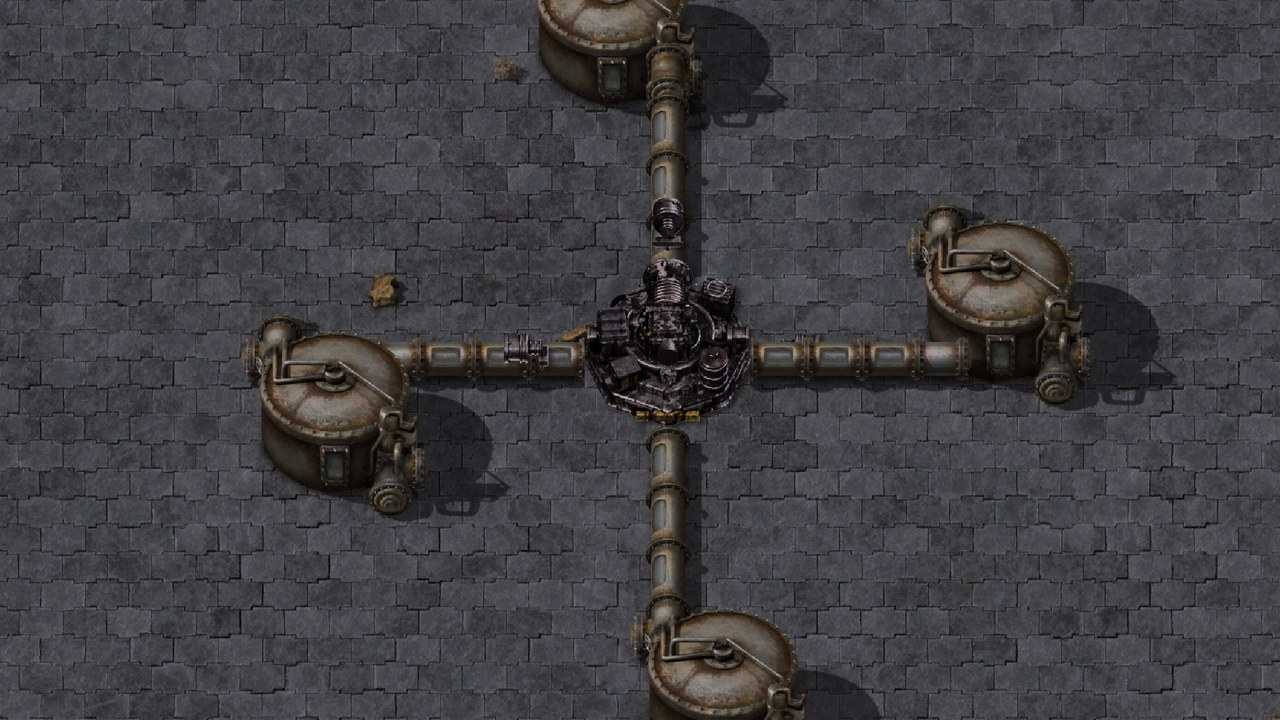
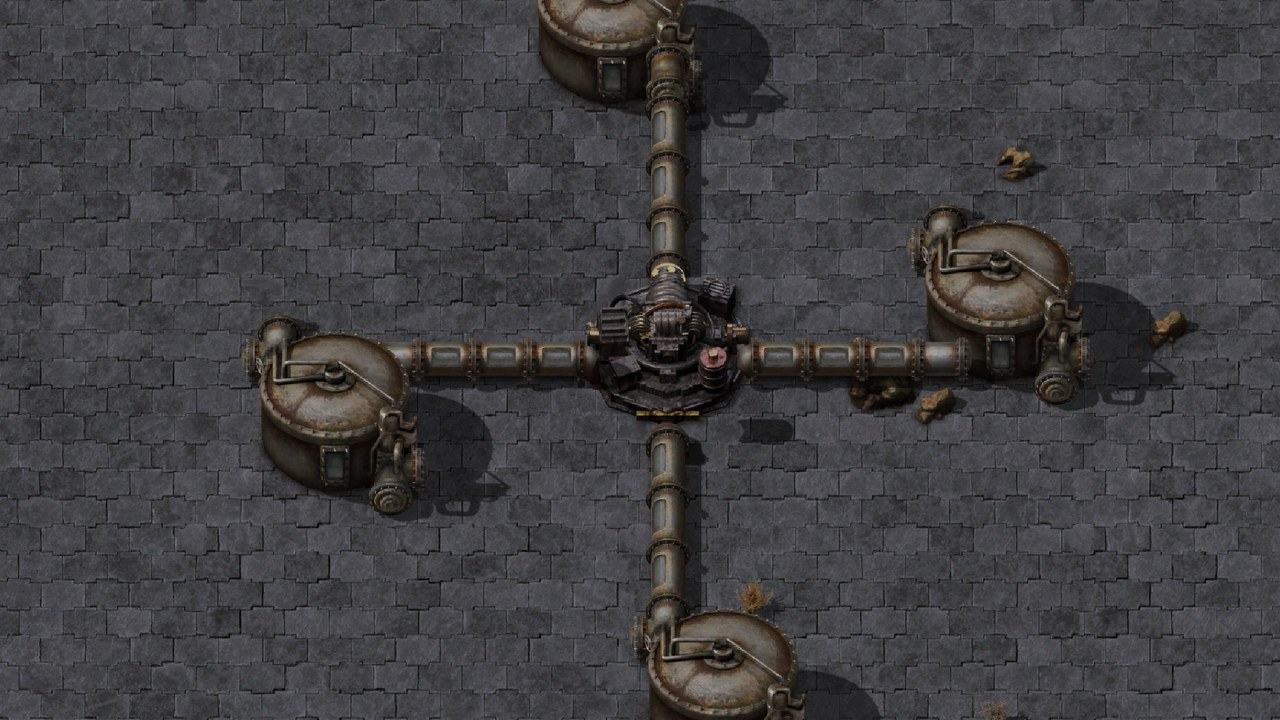
melta: give the turret cubeine's pipe stub, and nothing on an unused port
The 0.5.x build rendered its own port and cap. Both were placed at the
connection point (1.12 tiles), while the hull's silhouette starts at
1.28 north / 1.53 west / 1.64 east, so every side with no pipe showed a
plate floating half a tile off the deck -- and `pipe_covers` is by
definition the picture for a side with nothing connected.

Replace it with the configuration lilys-cubeine's combustion center
already ships, copied almost verbatim:

  pipe_picture             = space-age electromagnetic-plant pipe pictures
  draw_only_when_connected = true
  secondary_draw_orders    = {north = -1, west = -1, east = -1}
  pipe_covers              = nil   (vanilla covers only when space-age is absent)

`draw_only_when_connected` is the "only if the connector is actually
used" behaviour: an unused side draws nothing at all. The negative
secondary draw order puts the stub behind the hull, so what reads is the
pipe running into the housing rather than a collar on the deck. The art
is untinted, i.e. the same grey hardware as every pipe the player
builds. Positions stay at C.pipe_reach = 1.12 -- a connection cannot
move outward anyway (the loader rejects anything outside the 1.199
collision box), and that number is the part of cubeine's config that
does not carry over from its 5x5 reactor.

Verified in one GUI run (2.1.23): joins on all four sides, bare hull on
the three unconnected sides of a one-sided turret, plus a vanilla
[…]

diff --git a/DESIGN.md b/DESIGN.md
@@ -286,93 +286,75 @@ So the ports are `+-1.12` tiles on the four axes and `flow_direction` is left at
 engine default (`"input-output"`, verified at runtime by reading
 `get_fluid_box_pipe_connections`) like the vanilla flamethrower turret.
 
-### Why the pipes still looked disconnected, and what actually fixes it
+### The fix: the pipe hardware cubeine's combustion center already ships
 
 `pipe_covers` is **not** the connected-port picture. 2.1 splits the two cases:
 
 | field | drawn when |
 |---|---|
-| `pipe_picture` | a pipe *is* connected on that side — this is the machine's own stub (vanilla's `assembling-machine-2-pipe-N/E/S/W`) |
+| `pipe_picture` | a pipe *is* connected on that side — the machine's own stub |
 | `pipe_covers` | nothing is connected on that side — a blanking cap |
 | `always_draw_covers` | defaults to **true when `pipe_picture` is absent**, i.e. covers are then drawn on every side |
 
-The 0.4.0 build set only `pipe_covers`, so the engine drew vanilla's *cap* — whose art
-sits 0.28-0.5 tiles inboard of the anchor, i.e. at 0.88-1.04 tiles from the centre —
-on all four sides whether a pipe was there or not: a collar lying on the deck, half a
-tile short of the pipe, and no port art at all where the pipe arrived.
+0.4.0 set only `pipe_covers`, so vanilla's *cap* — whose art sits 0.28-0.5 tiles inboard
+of the anchor — was drawn on all four sides whether a pipe was there or not. 0.5.x
+replaced that with the mod's own rendered port plus a blanked-off variant of it, and hit
+the same wall one generation further on: a cap has to be drawn at the connection point
+(1.12), while the hull's silhouette starts at 1.28 north / 1.53 west / 1.64 east, so
+**every unused side showed a plate floating half a tile off the deck** — visible in
+`docs/verification/in-game-pipes/05-capped-ports.jpg` from 0.5.1.
 
-The fix is the native one and it is where the "render extra pipe models" instinct was
-right: the mod now renders its own port (`graphics/_blender/pipe_port.py`, one model:
-mount pad, neck with ribbed strain relief, bolted clamp collar, socket mouth with a
-bolt ring) in four orientations, and supplies it as **`pipe_picture`** for connected
-sides and as a blanked-off variant of the same port for **`pipe_covers`**.
-`always_draw_covers = false` makes the distinction explicit.
+The configuration that works is not a render at all: it is what `lilys-cubeine`'s
+combustion center already ships, copied almost verbatim.
 
-- Frame centre = the connection point, `scale = 0.5` on a 128 px sprite (64 art px/tile,
-  the same density as the rest of the mod's art), so `C.pipe_reach` decides where the
-  socket sits and nothing guesses a `shift`.
-- One model, four renders through the same 51° camera: the projection lands it at a
-  different screen distance per side (the pipe's own art is asymmetric too — its near
-  edge is 1.52 tiles north but 1.19 south). `C.pipe_shift` carries the per-side
-  correction, screen tiles: south `+0.18` and west `-0.22`, because on those sides the
-  clamp collar otherwise hid behind the hull's deeper rim (south 1.28) or the west
-  vent block, and only the mouth showed — which read as a cap sitting on the pipe.
+```lua
+pipe_picture             = <space-age electromagnetic-plant pipe pictures>
+draw_only_when_connected = true
+secondary_draw_orders    = {north = -1, west = -1, east = -1}
+pipe_covers              = nil          -- whenever space-age is present
+```
 
-Measured with `python graphics/_blender/pipe_join.py --check`, which composites the
-hull, the port and the real vanilla pipe sprite at 64 px/tile (Factorio zoom 2.0) and
-fails if the port does not reach the pipe or if any bare ground shows in between:
+- `draw_only_when_connected` is literally "only if the connector is actually used": a
+  side with no pipe draws nothing, so an unused port is bare hull with no cap to float.
+- `secondary_draw_order = -1` draws the stub behind the hull, so its inboard half is
+  hidden and what reads is the part that pokes past the rim — a pipe running into the
+  housing rather than a collar lying on the deck.
+- The art is space-age's `electromagnetic-plant-pipe-{N,E,S,W}`, **untinted**: the same
+  grey metal as every pipe the player builds. (cubeine's own combustion center uses
+  exactly these pictures, also untinted.)
+- `pipe_connections` stay at `C.pipe_reach = 1.12` on all four sides. Positions are the
+  one part of that config that does *not* carry over: cubeine's connections sit at ±2 on
+  a 5x5 reactor, and a connection cannot move out to meet the pipe anyway (1.199 is the
+  hard ceiling).
 
-| side | port reaches | pipe's near edge | overlap | bare ground between |
-|---|---|---|---|---|
-| north | 1.98 | 1.52 | +0.46 | 0 |
-| east | 1.89 | 1.50 | +0.39 | 0 |
-| south | 1.77 | 1.19 | +0.58 | 0 |
-| west | 2.01 | 1.52 | +0.50 | 0 |
+A base-only install gets vanilla `pipecoverspictures()` covers instead — the same thing
+the vanilla flamethrower turret uses — because the electromagnetic-plant art does not
+exist without the expansion. The mod detects `mods["space-age"]` at the data stage and
+picks the branch itself.
 
-The capped sprite is checked the same way (`cap px`: pixels the blanking plate adds over
-the open port, 72-160 per side) so "no pipe connected" cannot silently revert to looking
-like an open socket.
+### Evidence
 
-In game (Steam build, 15 screenshots in `docs/verification/in-game-pipes/`): all four
-pipes meet the turret with no bare floor and a visible socket, the three unconnected
-sides of a one-sided turret show blanked plates, and the straight / L / T / cross
-junctions plus a dead end all render clean — the dead end capped, not hollow.
+Real frames from one GUI run (Steam build 87750, 2.1.23), `docs/verification/in-game-pipes/`,
+taken by the `melta-pipes` harness:
 
+| shot | what it shows |
+|---|---|
+| `00-vanilla-ref` | vanilla `assembling-machine-2` with a pipe on four sides — the yardstick for what a vanilla `pipe_picture` join looks like (it leaves a hairline seam too) |
+| `02-melta-four-way`, `03/04/12/13-join-*` | all four joins on a fully plumbed turret: pipe, stub, hull, no bare floor |
+| `05-capped-ports`, `14-capped-port-north` | a turret plumbed on one side: the other three sides are **bare hull**, no hardware at all |
+| `01-overview`, `15-overview-close` | the whole pad, so the joins can be judged at normal zoom |
 
-Measured join — distance from the turret centre to the hull's own silhouette vs to the
-pipe's near edge, at 64 px/tile, measured in a +-0.5 tile band around each pipe axis
-(that band is the only part of the hull a pipe can meet):
+Before/after on the same scene: the 0.5.1 frames (in the same folder) draw a ringed cap
+on every side, connected or not; these draw the stub only where a pipe arrives. The
+in-game pass also re-confirms the plumbing still works headlessly — pipes on all four
+sides are connection targets, and a filled pipe hands fluid over on the next tick (see
+`docs/pipe-connections/`, unchanged by this: no prototype moved except the pipe art
+fields).
 
-| side | hull silhouette | pipe's near edge | ground gap |
-|---|---|---|---|
-| north | 1.38 | 1.50 | **+0.12** |
-| east | 1.64 | 1.50 | −0.14 (pipe overlaps the hull) |
-| south | 1.28 | 1.19 | −0.09 (overlap: the pipe's raised rim projects over the skirt) |
-| west | 1.53 | 1.50 | −0.03 |
-
-The south and east pipe ends are drawn *closer* than 1.5 tiles because the vertical
-pipe sprite's raised rim, and the baked cast shadow, project inboard on screen — that is
-the art, not a port placement.
-
-North used to be +0.42 and was the one side that read as unattached. It was not a
-plumbing problem: a `pipe_connection` cannot sit outside the 1.199 collision box and the
-cover art draws inboard of the anchor, so no socket sprite can reach into that gap. The
-cause was the **art**: `melta-turret-base.png` is rendered through a 51° pitched
-orthographic camera, so the round hull's footprint is drawn squashed in Y — 3.05 tiles
-wide but only ~2.1 tall where vanilla turret hulls run about 1.2 wide-to-tall. So
-`assemble.py` now de-squashes the base layer vertically (`BASE_DESQUASH_Y = 1.26`,
-applied about the frame centre, so `shift = {0, 0}` and the head stays concentric). Only
-the base layer: the 64 head frames are not resampled, so the pivot is untouched.
-
-For reference, vanilla `assembling-machine-2` (same ±1.2 collision box, so pipes also sit
-2.0 tiles out) leaves **+0.24** on its north side — measured the same way, in
-`docs/pipe-sockets/reference-vanilla.png`. Ours is now tighter than vanilla's.
-
-`docs/pipe-sockets/` holds the comparison that picked 1.12 (sink / flush / float /
-no-covers), the four side views, the north before/after panel, the vanilla reference and
-`gaps.json` (the measured table), with a README that says exactly how they were made and
-the one command that re-measures them:
-`python graphics/_blender/pipe_sockets.py --check`.
+The measured hull/pipe geometry above is unchanged and still the reason the stub cannot
+simply be moved outward: `docs/pipe-sockets/` (superseded as art evidence — its
+composites still draw vanilla covers — but `gaps.json` is the measurement) and
+`python graphics/_blender/pipe_sockets.py --check` remain valid as numbers.
 
 ## Engine facts this leans on (and the ones that bit)
 

diff --git a/docs/verification/in-game-pipes/README.md b/docs/verification/in-game-pipes/README.md
@@ -1,17 +1,28 @@
 # In-game check of the pipe joins
 
-15 screenshots from one real Factorio launch (Steam build 87750, 2.1.23), taken with
+17 screenshots from one real Factorio launch (Steam build 87750, 2.1.23), taken with
 `game.take_screenshot` by the `melta-pipes` harness in `docs/verification/harness/`.
 Nothing here is a mock-up or a sprite composite -- these are the game's own frames.
+
+The 0.5.1 frames are kept beside the current ones (`*-0.5.1.jpg`) so the change can be
+seen rather than trusted: 0.5.1 drew a ringed port/cap on **every** side, connected or
+not, and its art sat at the connection point while the hull's silhouette starts further
+out -- so each unused side showed a plate floating half a tile off the deck. The current
+build draws the space-age stub **only** where a pipe actually arrives.
 
 ## Scene
 
 The harness builds it on a concrete pad at y = 200, far from the crash site:
 
+* **REF / `00-vanilla-ref*`** (-16, 200) -- a vanilla `assembling-machine-2` with a pipe on
+  all four sides. Same ±1.2 collision box and the same `pipe_picture` mechanism, so it is
+  the yardstick for what a vanilla join looks like: its pipe flange stops ~10-15 px short
+  of the hull at 4x zoom. The mod's joins are compared against it, not against a mental
+  image.
 * **A** (0.5, 200.5) -- the melta with a pipe on **all four sides**, each run continuing
   three tiles out into a storage tank, so every port is a live fluid neighbour.
 * **B** (16.5, 200.5) -- a second melta plumbed on **one** side only: the other three
-  ports are bare, which is the "unused port must look blanked off" case.
+  ports are bare, which is the "an unused port must draw nothing" case.
 * **C** (y = 214) -- the four junction shapes on their own (straight run, L corner, T
   junction, 4-way cross) plus a two-tile run that dead-ends in open ground.
 
@@ -19,42 +30,48 @@ The harness builds it on a concrete pad at y = 200, far from the crash site:
 
 | file | shows |
 |---|---|
+| `00-vanilla-ref.jpg` | the vanilla assembler, zoom 2.6 -- the reference join |
+| `00-vanilla-ref-north.jpg` | the same at 4x: the small seam a vanilla `pipe_picture` leaves |
 | `01-overview.jpg` | whole pad, zoom 0.9: the turret, its four tanks, the shapes |
-| `02-melta-four-way.jpg` | the turret with one pipe per side, zoom 2.6 |
+| `02-melta-four-way.jpg` | the turret with one pipe per side, zoom 2.6 (`-0.5.1` = before) |
 | `03-join-north.jpg`, `04-join-east.jpg`, `12-join-south.jpg`, `13-join-west.jpg` | each join at zoom 4.0 |
-| `05-capped-ports.jpg`, `14-capped-port-north.jpg` | turret B: the three unconnected ports |
+| `05-capped-ports.jpg`, `14-capped-port-north.jpg` | turret B: the three unconnected ports are bare hull (`-0.5.1` = before: floating caps) |
 | `06-shapes.jpg` | the junction shapes, zoom 1.6 |
 | `07-straight.jpg`, `08-corner.jpg`, `09-t-junction.jpg`, `10-cross.jpg`, `11-dead-end.jpg` | one junction each, zoom 3.2 |
 | `15-overview-close.jpg` | the turret and its four joins, zoom 1.8 |
 
-Result: every join reads as a pipe entering a metal socket that belongs to the turret,
-with no bare floor in between; the bare ports show a bolted blanking plate; the straight
-/ L / T / cross junctions meet cleanly; the dead end is capped, not an open hole.
+Result: every join reads as a pipe entering hardware that belongs to the turret, with no
+bare floor in between and nothing drawn on a side that has no pipe; the straight / L / T
+/ cross junctions meet cleanly; the dead end is capped, not an open hole.
 
-## How the run was made (and why it is not a one-liner)
-
-This install is the Steam build. Two traps, both worked around:
-
-1. **Steam's URL launch truncates the argument string at the first `:`.** Passing
-   `--config C:/...` through `steam://run/427520//...` reaches the game as
-   `--config C:`, and the game then reads its config from `C:/` (see
-   `Error GlobalContext.cpp:1272: C:\: Bad file format`). Percent-encoding the colon
-   (`%3A`) does not survive either. The args have to be **colon-free relative paths**,
-   which is why the environment sits at `E:\hermes-melta-env` and is passed as
-   `--config ../../../../../../hermes-melta-env/config.ini` (working directory is
-   `bin/x64`).
-2. **A directly started `Factorio.exe` prints "Steam requires game restart" and exits.**
-   A `steam_appid.txt` containing `427520` next to the executable makes it start
-   normally (Steam API reports `API loaded no`, which is fine for a scratch profile).
-   That file is **not** part of this repo and was removed after the run.
+## How the run was made (and the traps)
 
 ```bash
-W=C:/Users/Lily/AppData/Local/hermes/cache/scratch/ftest_shot   # scratch env
-# 1. build the scene into a save (no ticking in --create, so the harness builds in on_init)
-Factorio.exe --config $W/config.ini --mod-directory $W/mods --create $W/shot2.zip
+W=C:/Users/Lily/AppData/Local/hermes/cache/scratch/ftest_shot   # scratch write-data
+# 0. stage the tree into E:/hermes-melta-env/mods/lilys-melta (never the live mod dir)
+# 1. build the scene into a save (the harness builds it in on_init, which --create runs)
+Factorio.exe --config E:/hermes-melta-env/config.ini \
+             --mod-directory E:/hermes-melta-env/mods --create E:/hermes-melta-env/shot2.zip
 # 2. one GUI run: it loads that save, the harness fires the screenshot schedule
-Factorio.exe --config $W/config.ini --mod-directory $W/mods --load-game $W/shot2.zip
+SteamAppId=427520 SteamGameId=427520 Factorio.exe \
+             --config E:/hermes-melta-env/config.ini \
+             --mod-directory E:/hermes-melta-env/mods --load-game E:/hermes-melta-env/shot2.zip
 ```
+
+1. **A minimal `config.ini` is not enough for a GUI run.** With only `[path]` the game
+   dies at startup with `Error Util.cpp:81: Value must be a dictionary in property tree
+   at ROOT.sound`. Copy the player's real config and override `write-data=` with the
+   scratch path instead of writing a two-line file.
+2. **The game pauses when its window is not focused**, so the screenshot schedule stops
+   dead mid-list: the log stops, no new frames appear, and the process still reports
+   "Responding". Bring the window to the front and send a click or `<Tab>`; the schedule
+   resumes at the next scheduled tick. A run that looks hung for minutes is usually this.
+3. **Sprite loading dominates the clock** -- 8808 bitmaps, 3-7 min on this box, longer
+   while another Factorio instance is running. `--create` is ~10 s; the GUI load is the
+   slow part, so put everything you need to see into one save rather than iterating.
+4. The probe needs `space-age` enabled in its `mod-list.json`: the stub art comes from
+   `__space-age__/prototypes/entity/electromagnetic-plant-pictures`. A base-only install
+   deliberately falls back to vanilla `pipecoverspictures()` covers.
 
 The harness writes to `<write>/script-output/pipes/*.png` (1920x1080); the JPEGs here are
 those frames, downscaled to 1280x720 at q88.
